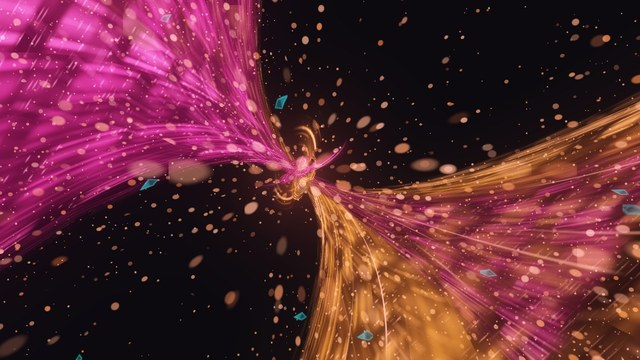
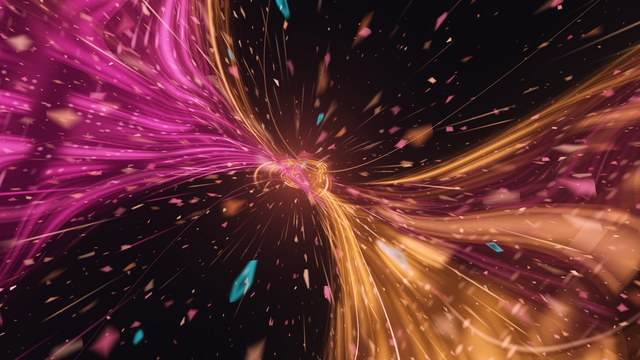
Knot: rush forward, smear and tumble, all smooth
Syd's notes: the film's 0:38-0:40 shot rushes forward with heavy motion
blur and big tumbling flakes, where Knot drifted calmly with small round
dots; and every mode should feel smoother and silkier, never steppy.

- The camera pushes in and rolls slowly as it flies. Radial speed streaks
  and four depth layers of debris rush out past it.
- Debris is now irregular tumbling flakes (skewed slabs with a sheared
  corner, flipping end over end and glinting), from far specks to big soft
  bokeh flakes up close, each smeared along its flight line, plus a few
  cyan glass shards.
- Fibres smear along their flow as the rush builds; value-noise turbulence
  makes the streams wander like paint, the pink most, and stray filaments
  fly loose either side.
- Smooth by construction: speed comes from uScroll, smear and push follow
  the eased uActive, the beat is a soft cosine swell on uBeats instead of
  a kick, the twist surges forward continuously, and the bass terms that
  move patterns are softened. uBeatStrength is no longer read.
- Dim and still in silence, as before. Shape, palette and grade unchanged.

Cost: about 1.15x the previous Knot in the GLSL harness. Bounded loops,
no raymarching; the exact Swift text compiles in glslangValidator and Mesa.

diff --git a/VisualiserMac/Sources/VisualiserMac/Render/FunShaders.swift b/VisualiserMac/Sources/VisualiserMac/Render/FunShaders.swift
@@ -2203,31 +2203,36 @@ extension FunShaders {
 extension FunShaders {
     // MARK: - Knot
 
-    /// A tangle of glowing paint threads, after the climax of the AudioVane
-    /// brand film (0:38 to 0:40). Two broad streams of fibres, hot pink
-    /// sweeping in from the top left and gold from the bottom right, pinch
-    /// through one tight twisted neck like a wrung-out rope and flare out
+    /// A tangle of glowing paint threads rushing past, after the climax of the
+    /// AudioVane brand film (0:38 to 0:40). Two broad streams of fibres, hot
+    /// pink sweeping in from the top left and gold from the bottom right,
+    /// pinch through one tight twisted neck like a wrung-out rope and flare out
     /// again, with a couple of loose threads tangled round the neck. Each
     /// stream is drawn as a projected twisted cylinder: the angle round it at
     /// each pixel comes straight from acos, so every single fibre can be read,
     /// splits into finer threads where the stream fans out, and frays at the
-    /// edges, with no raymarching. The loose threads are polar loops that
-    /// cross themselves like a trefoil. Gold glitter, chunky soft flakes and
-    /// cyan glass shards stream out past the camera in four depth layers.
-    /// The colours are picked to land as hot pink and gold through the NEON
-    /// grade, and the background carries a touch of green so the grade's
-    /// purple lift reads as black. Streaks run along the fibres on uScroll, so
-    /// it moves more when the music is loud. The bass wrings the neck tighter
-    /// and swells the fans, every beat twists the neck another notch and
-    /// re-ties one of the loose threads, and the treble sparkles the fibres.
+    /// edges, with no raymarching. Value-noise turbulence makes the streams
+    /// wander and smear like paint, and stray filaments fly loose either side.
+    /// The camera pushes in and rolls as it flies: radial speed streaks and
+    /// four depth layers of irregular tumbling gold flakes (big soft bokeh ones
+    /// up close) and cyan glass shards rush out past it, each smeared along its
+    /// flight line, and the fibres smear along their flow.
+    /// Everything moves smoothly: speed comes from uScroll (faster when loud),
+    /// smear and push follow the eased uActive, and the beat is a soft cosine
+    /// swell on uBeats rather than a kick, so nothing snaps on a hit. The bass
+    /// wrings the neck tighter and swells the fans, the twist surges forward
+    /// on each beat, and the treble sparkles the fibres. The colours are picked
+    /// to land as hot pink and gold through the NEON grade, and the background
+    /// carries a touch of green so the grade's purple lift reads as black.
     /// In silence: dim, and still.
     static let knot = """
     // Knot: two broad streams of glowing paint threads, hot pink sweeping in
     // from the top left and gold from the bottom right, pinch through one tight
     // twisted neck like a wrung-out rope and flare out again, with loose threads
     // tangled round the neck. Each stream is a bundle of single fibres that fray,
-    // split and rejoin. Gold glitter, chunky flakes and cyan glass shards stream
-    // out past the camera through black space.
+    // split and rejoin. Gold glitter, tumbling flakes and cyan glass shards rush
+    // out past the camera through black space; the louder it gets, the faster the
+    // camera pushes in and the longer everything streaks.
 
     const vec3 knotPink = vec3(1.0, 0.12, 0.42);
     const vec3 knotGold = vec3(1.0, 0.52, 0.06);
@@ -2239,6 +2244,25 @@ extension FunShaders {
     float knotNoise1(float x) {
         float i = floor(x), f = fract(x);
         return mix(hash21(vec2(i, 0.37)), hash21(vec2(i + 1.0, 0.37)), f * f * (3.0 - 2.0 * f));
+    }
+
+    // Cheap 2D value noise for the painterly turbulence.
+    float knotNoise2(vec2 x) {
+        vec2 i = floor(x), f = fract(x);
+        f = f * f * (3.0 - 2.0 * f);
+        return mix(mix(hash21(i), hash21(i + vec2(1.0, 0.0)), f.x),
+                   mix(hash21(i + vec2(0.0, 1.0)), hash21(i + vec2(1.0, 1.0)), f.x), f.y);
+    }
+
+    // How hard we're rushing forward: 0 in silence, about 1 on a steady beat,
+    // up to 2.5 when it's loud.
+    // A soft swell that peaks on each beat and eases away; never a kick.
+    float knotSwell() { return (0.5 + 0.5 * cos(2.0 * PI * uBeats)) * uActive; }
+    // How hard we're rushing forward: 0 in silence, about 1 on a steady beat,
+    // up to about 2 when it's loud. Kept gentle on the jumpy inputs so the
+    // speed changes glide rather than jump.
+    float knotRush() {
+        return min(uActive * (0.5 + 2.0 * uLevel + 0.5 * uBass) + 0.25 * knotSwell(), 2.2);
     }
 
     // A cheap atan2 (error under 0.01 rad), good enough for drawing curves.
@@ -2258,10 +2282,11 @@ extension FunShaders {
         return 0.6 + 0.4 * (8.0 * x * (1.0 - x) - 1.0);
     }
 
-    // Slow motion clock: runs faster when louder, stops in silence.
-    float knotClock() { return uTime * 0.3 + uScroll * 1.4; }
-    // One re-tie per beat, eased in, so the twist never snaps backwards.
-    float knotRetie() { return floor(uBeats) + smoothstep(0.0, 0.35, fract(uBeats)); }
+    // Motion clock: runs faster when louder, stops in silence.
+    float knotClock() { return uTime * 0.45 + uScroll * 2.4; }
+    // The twist turns on with the beat: always moving forward, surging softly
+    // on each beat and easing between, with no steps.
+    float knotRetie() { return uBeats + 0.1 * sin(2.0 * PI * uBeats); }
 
     // Paint one pass of a strand. `u` runs -1..1 across it, `t` along it.
     // Returns the colour to add in rgb and how much it covers what's behind in a.
@@ -2317,7 +2342,7 @@ extension FunShaders {
         // every third beat this strand re-ties: its loops slide round and flip
         // (the strands take turns, so something re-ties on every beat)
         float bt3 = (retie - mod(seed, 3.0)) / 3.0;
-        float tie = floor(bt3) + smoothstep(0.0, 0.35, fract(bt3));
+        float tie = floor(bt3) + smoothstep(0.0, 1.0, fract(bt3));
         float ph = B.w + clk * (0.35 + 0.06 * seed) * flip + tie * 1.7 * flip;
         // the knot twists slowly: a small sway on top of each strand's fixed tilt
         float sway = sin(clk * 0.23 + seed * 2.1);
@@ -2374,7 +2399,7 @@ extension FunShaders {
     // `ph` is the angle round the bundle, `s` the distance along it.
     // Returns the colour in rgb and how much it covers what's behind in a.
     vec4 knotFibres(float ph, float s, float x, float flow, float nf, float seed,
-                    vec3 tint, float fan, float lit) {
+                    vec3 tint, float fan, float lit, float sm) {
         float ax = abs(x);
         // fibres: count them round the bundle; where it fans out wide, each one
         // splits into finer threads
@@ -2382,12 +2407,15 @@ extension FunShaders {
         float fi = floor(c);
         float fh = hash21(vec2(fi, seed));
         float fl = abs(fract(c) - 0.5);
-        float thread = smoothstep(0.12 + 0.25 * fh, 0.02, fl);
+        // the faster we rush, the softer and more smeared each fibre gets
+        float bl = (sm - 1.0) * 0.025;
+        float thread = smoothstep(0.12 + 0.25 * fh + bl, 0.02 - 0.5 * bl, fl);
         float c2 = c * 3.0;
-        float fine = smoothstep(0.3, 0.05, abs(fract(c2) - 0.5)) * hash21(vec2(floor(c2), seed + 3.0));
+        float fine = smoothstep(0.3, 0.05, abs(fract(c2) - 0.5)) * hash21(vec2(floor(c2), seed + 3.0)) / sm;
         thread = mix(thread, max(thread * 0.6, fine), fan);
         // long streaks flowing in along the fibres: they split, thin out and rejoin
-        float streak = knotNoise1((abs(s) * 14.0 - flow) * (1.0 + fh) + fi * 7.3);
+        // `sm` stretches them out as the rush speeds up: a motion smear
+        float streak = knotNoise1((abs(s) * 14.0 / sm - flow) * (1.0 + fh) + fi * 7.3);
         thread *= smoothstep(0.25, 0.6, streak);
         // ragged edges: some fibres stray outside the bundle, some stop short
         float rag = knotNoise1(abs(s) * 6.0 + fi * 3.1);
@@ -2395,15 +2423,15 @@ extension FunShaders {
         // the paint body: a soft round bundle, streaked along its length
         float body = sqrt(max(1.0 - x * x, 0.0)) * (0.3 + 0.9 * streak * streak);
         // glittering flecks caught in the paint, and treble sparkle on the fibres
-        float fa = (abs(s) * 90.0 - flow * 2.0) + fh * 7.0;
+        float fa = (abs(s) * 90.0 / sm - flow * 2.0) + fh * 7.0;
         float fleck = step(0.8, hash21(vec2(floor(fa), floor(c2) + seed * 41.0)));
         fleck *= smoothstep(0.35, 0.05, length(vec2(fract(fa) - 0.5, fract(c2) - 0.5)));
         float gl = step(0.985 - 0.04 * uTreble, hash21(vec2(fi + seed * 31.0, floor(fa * 0.5))));
         // fine bright filaments running through the gold
         float c3 = c * 2.0 + 0.37;
         float fil = smoothstep(0.08, 0.0, abs(fract(c3) - 0.5)) * step(0.65, hash21(vec2(floor(c3), seed + 9.0)));
-        fil *= smoothstep(0.4, 0.8, knotNoise1(abs(s) * 5.0 - flow * 0.5 + floor(c3) * 5.1)) * step(0.3, tint.g);
-        float s1 = env * (body * 0.75 + thread * (0.35 + 0.9 * fh));
+        fil *= smoothstep(0.4, 0.8, knotNoise1(abs(s) * 5.0 / sm - flow * 0.5 + floor(c3) * 5.1)) * step(0.3, tint.g);
+        float s1 = env * (body * 0.5 + thread * (0.45 + 1.0 * fh));
         vec3 hot = mix(tint, vec3(1.0, 0.85, 0.7), 0.5);
         vec3 col = tint * s1 + hot * env * (fil * 1.6 + thread * fh * fh * fh * fh + (fleck * 0.6 + gl * thread * (0.9 + 2.0 * uTreble)) * step(0.4, fh));
         return vec4(col * lit, 0.55 * env);
@@ -2415,12 +2443,18 @@ extension FunShaders {
     // past the neck), and twists hardest right at the neck.
     void knotStream(inout vec3 col, inout float near, vec2 p, vec2 n, float ang, float bend,
                     float flareIn, float flareOut, float twist, float spin, float flow,
-                    float nf, float seed, vec3 tint, float fadeOut, float lit) {
+                    float nf, float seed, vec3 tint, float fadeOut, float lit,
+                    float sm, float mess) {
         vec2 dir = vec2(cos(ang), sin(ang));
         vec2 q = p - n;
         float s = dot(q, dir);                                // > 0: coming in
-        float v = dot(q, vec2(-dir.y, dir.x)) - bend * s * s;
-        float neck = 0.018 * (1.0 - 0.3 * uBass);            // bass wrings the neck tighter
+        float as = abs(s);
+        // painterly turbulence: the stream wanders and smears out in the fans,
+        // flowing in with the paint, while the neck stays tight
+        vec2 wq = vec2(as * 3.2 / sm - flow * 0.07, dot(q, vec2(-dir.y, dir.x)) * 3.0 + seed * 5.3);
+        float turb = 1.4 * (knotNoise2(wq) - 0.5);
+        float v = dot(q, vec2(-dir.y, dir.x)) - bend * s * s + turb * mess * smoothstep(0.02, 0.45, as);
+        float neck = 0.018 * (1.0 - 0.2 * uBass - 0.1 * knotSwell()); // bass wrings the neck tighter
         float W = neck + s * s * (s > 0.0 ? flareIn : flareOut);
         float x = v / W;
         float ax = abs(x);
@@ -2430,36 +2464,61 @@ extension FunShaders {
         near += side * reach / (1.0 + ax * ax);
         // a soft glow round the stream
         col += tint * side * reach * 0.06 * lit / (1.0 + 2.0 * ax * ax);
+        // stray filaments flying loose either side, converging through the neck
+        if (ax < 3.0) {
+            float hair = 0.0;
+            for (int i = 0; i < 2; i++) {
+                float fi = float(i);
+                float xo = (1.2 + 0.4 * fi + 0.8 * knotNoise1(as * 3.0 + fi * 9.0 + seed * 3.0)) * (mod(fi, 2.0) * 2.0 - 1.0);
+                float dd = abs(v - xo * W);
+                hair += smoothstep(0.003, 0.0, dd) * smoothstep(0.35, 0.75, knotNoise1(as * 4.0 / sm - flow * 0.35 + fi * 5.0 + seed));
+            }
+            col += mix(tint, vec3(1.0, 0.8, 0.7), 0.3) * hair * 0.6 * side * reach * lit;
+        }
         if (ax > 1.05) return;
+        // paint blotches: the colour gathers and thins unevenly
+        lit *= 0.55 + 0.9 * knotNoise2(vec2(as * 5.0 / sm - flow * 0.1, x * 1.3 + seed));
         // a projected twisted cylinder: each fibre sits at angle ph round it
         float a = acos(clamp(x, -1.0, 1.0));
         float T = twist * s / (0.05 + abs(s)) + spin;         // twists hardest at the neck
         float depth = 0.65 + 0.35 * sqrt(max(1.0 - x * x, 0.0));
-        vec4 back = knotFibres(-a - T, s, x, flow, nf, seed, tint, fan, lit * side * reach * 0.55);
+        // the fibres wander round the bundle so it never repeats evenly
+        T += turb * mess * 9.0 * fan;
+        vec4 back = knotFibres(-a - T, s, x, flow, nf, seed, tint, fan, lit * side * reach * 0.55, sm);
         col = col * (1.0 - back.a * 0.6) + back.rgb;
-        vec4 front = knotFibres(a - T, s, x, flow, nf, seed, tint, fan, lit * side * reach * depth);
+        vec4 front = knotFibres(a - T, s, x, flow, nf, seed, tint, fan, lit * side * reach * depth, sm);
         col = col * (1.0 - front.a) + front.rgb;
     }
 
     void main() {
-        vec2 p = screenP();
+        vec2 p0 = screenP();
         float clk = knotClock();
         float retie = knotRetie();
+        float rush = knotRush();
+        float swl = knotSwell();
         float lit = (0.35 + 0.65 * uActive) * (1.1 + 0.5 * uLevel + 0.4 * uBass);
         // the neck sits a little left of centre, wandering slowly
         vec2 n = vec2(-0.08 + 0.03 * sin(clk * 0.13), 0.0 + 0.02 * sin(clk * 0.11 + 1.0));
-        float flow = uScroll * 6.0 + uTime * 0.6;             // streaks run in along the streams
-        float swell = 1.0 + 0.4 * uBass;                       // bass swells the fans
-        float wring = 2.6 + 0.6 * uBass;                       // and twists it harder
+        // the camera leans in as it rushes, swelling softly on the beat
+        vec2 p = n + (p0 - n) / (1.0 + 0.07 * uActive + 0.04 * swl);
+        // motion smear along the flow and painterly turbulence; both follow the
+        // smoothly eased activity so the patterns never jump on a hit
+        float sm = 1.0 + 1.3 * uActive + 0.15 * swl;
+        float mess = 0.02 + 0.02 * uActive;
+        float flow = uScroll * 16.0 + uTime * 1.2;            // streaks run in along the streams
+        // the camera rolls and drifts smoothly as it flies
+        p = n + rot(0.18 * sin(clk * 0.21) + 0.08 * sin(clk * 0.37 + 1.3)) * (p - n);
+        float swell = 1.0 + 0.2 * uBass + 0.08 * swl;          // bass swells the fans
+        float wring = 2.6 + 0.25 * uBass;                      // and twists it harder
         float tie = retie * 0.9;                                // every beat twists it another notch
 
         vec3 col = vec3(0.004, 0.03, 0.0);                     // lands near-neutral black after the grade
         float near = 0.0;
         // gold comes in from the bottom right, pink from the top left
         knotStream(col, near, p, n, -0.9 + 0.08 * sin(clk * 0.2), 0.5, 3.0 * swell, 0.8 * swell,
-                   wring, clk * 0.5 + tie, flow, 40.0, 2.0, knotGold, 0.4, lit);
-        knotStream(col, near, p, n, 2.6 + 0.08 * sin(clk * 0.17 + 2.0), -0.4, 2.4 * swell, 0.7 * swell,
-                   -wring, -clk * 0.6 - tie, flow * 1.1, 46.0, 1.0, knotPink, 0.35, lit);
+                   wring, clk * 0.5 + tie, flow, 40.0, 2.0, knotGold, 0.45, lit * 1.25, sm, mess);
+        knotStream(col, near, p, n, 2.6 + 0.08 * sin(clk * 0.17 + 2.0), -0.4, 1.9 * swell, 0.7 * swell,
+                   -wring, -clk * 0.6 - tie, flow * 1.1, 46.0, 1.0, knotPink, 0.16, lit * 0.9, sm, mess * 1.3);
         // loose threads tangled round the neck
         knotStrand(col, near, p, n, clk, retie, 1.0 - 0.16 * uBass, swell, lit,
                    vec4(0.01, 0.0, 0.4, 0.6), vec4(0.07, 1.5, 0.5, 0.0), vec4(0.0, 9.0, 1.6, 1.4), vec4(0.022, 8.0, 1.0, 4.0));
@@ -2468,56 +2527,78 @@ extension FunShaders {
         near = min(near, 2.0);
         // warm light gathered in the neck
         float kr = length(p - n);
-        col += mix(knotPink, knotGold, 0.6) * exp(-kr * 10.0) * (0.25 + 0.5 * uBeatStrength) * lit;
+        col += mix(knotPink, knotGold, 0.6) * exp(-kr * 10.0) * (0.25 + 0.35 * swl) * lit;
 
-        // gold glitter flecks, thicker round the streams
-        vec2 gq = (p - n) * 60.0;
-        vec2 gc = floor(gq);
-        float gh = hash21(gc);
-        vec2 go = fract(gq) - 0.5 - (vec2(hash21(gc + 3.1), hash21(gc + 7.7)) - 0.5) * 0.6;
-        float gsz = 0.07 + 0.2 * knotSq(hash21(gc + 1.9));
-        float speck = smoothstep(gsz, gsz * 0.3, length(go)) * step(0.99 - 0.25 * near - 0.04 * uTreble, gh);
-        col += mix(knotGold, vec3(1.0, 0.85, 0.5), hash21(gc + 5.5)) * speck * (0.8 + 1.0 * uTreble) * lit;
-
-        // a dense field of glitter, flakes and glass streaming out from the neck
-        // towards the camera: far layers are fine specks, near ones big, soft,
-        // chunky flakes streaked by their speed
-        float travel = uScroll * 0.5 + uTime * 0.04;
+        // speed lines: long radial streaks of paint shooting out from the neck,
+        // longer and faster the harder we rush
+        float travel = uScroll * 2.2 + uTime * 0.12;
         vec2 rq = p - n;
         float rr = max(length(rq), 1e-3);
         vec2 rdir = rq / rr;
-        float busy = min(near, 1.0) * 0.7 + exp(-rr * 5.0);
+        float ang = knotAtan(rq.y, rq.x);
+        float lr = log(rr);
+        float pinkSide = smoothstep(-0.4, 0.6, dot(rdir, vec2(-0.86, 0.5)));
+        for (int k = 0; k < 1; k++) {
+            float fk = float(k);
+            float N = 110.0;
+            float ac = ang / (2.0 * PI) * N + fk * 0.37;
+            float ai = floor(ac);
+            float h = hash21(vec2(ai, fk + 7.0));
+            float aw = abs(fract(ac) - 0.5) * 2.0 * PI / N * rr;  // distance across, on screen
+            float pos = fract(lr * 0.55 - travel * (0.5 + 0.5 * h) + h * 7.0);
+            float len = (0.12 + 0.3 * h) * (0.4 + 0.5 * rush);
+            float seg = smoothstep(0.0, len, pos) * smoothstep(len, len * 0.8, pos);
+            float wdt = 0.0015 + 0.004 * rr * h;
+            float line = smoothstep(wdt, 0.0, aw) * seg * step(0.25, h) * smoothstep(0.03, 0.15, rr);
+            vec3 lc = mix(mix(knotGold, vec3(1.0, 0.8, 0.45), h), knotPink, pinkSide * step(0.7, hash21(vec2(ai, fk + 3.0))));
+            col += lc * line * (0.2 + 1.0 * min(near, 1.0)) * (0.4 + 0.6 * rush) * lit;
+        }
+
+        // a dense field of glitter, tumbling flakes and glass rushing out from the
+        // neck past the camera: far layers are fine specks, near ones big, soft,
+        // bokeh-like flakes smeared by their speed
+        float busy = min(near, 1.0) * 0.8 + 1.2 * exp(-rr * 4.0);
         for (int k = 0; k < 4; k++) {
             float fk = float(k);
-            float z = fract(fk * 0.25 + travel);                    // 0 far, 1 right past us
-            float scale = mix(26.0, 2.2, z * z);
+            float z = fract(fk * 0.25 + travel * 0.45);          // 0 far, 1 right past us
+            float scale = mix(30.0, 1.4, z * z);
             vec2 bq = rq * scale + vec2(fk * 17.3, fk * 9.1);
             vec2 bc = floor(bq);
             float bh = hash21(bc + fk * 3.1);
-            vec2 lo = fract(bq) - 0.5 - (vec2(hash21(bc + 1.3), hash21(bc + 5.9)) - 0.5) * 0.4;
+            if (bh > 0.12 + 0.6 * busy) continue;                // an empty patch of space
+            float h1 = hash21(bc + 1.3), h2 = fract(h1 * 37.1), h3 = fract(h1 * 91.7), h4 = fract(h1 * 13.3);
+            vec2 lo = fract(bq) - 0.5 - (vec2(h1, h2) - 0.5) * 0.3;
             float along = dot(lo, rdir), across = dot(lo, vec2(-rdir.y, rdir.x));
-            float blur = 1.0 + 2.5 * z * z * (0.4 + 0.6 * uLevel);   // motion streaks
-            float fade = smoothstep(0.0, 0.2, z) * smoothstep(1.0, 0.8, z);
-            float size = (0.05 + 0.18 * knotSq(hash21(bc + 2.2))) * (0.8 + 0.6 * z);
-            if (bh < 0.02 && z > 0.55) {
-                // a cyan glass shard, tumbling
-                vec2 cp = rot(bh * 300.0 + clk * 1.5 + retie * 0.5) * vec2(along / blur, across);
-                vec2 kp = vec2(cp.x + 0.5 * cp.y, cp.y);
-                float sd = max(sdBox(kp, vec2(size * 1.6 + 0.08, size * 0.8 + 0.05)), dot(cp, vec2(0.6, 0.8)) - size * 0.6 - 0.03);
-                float edge = 0.015 + 0.03 * z;
-                float shard = smoothstep(edge, -edge, sd);
-                float rim = smoothstep(edge + 0.03, 0.0, abs(sd));
+            float fade = smoothstep(0.0, 0.25, z) * smoothstep(1.0, 0.93, z);
+            float size = (0.04 + 0.17 * h3 * h3) * (0.6 + 0.9 * z);
+            // motion streak along the flight line, kept inside the cell
+            float blur = min(1.0 + (0.6 + 5.0 * z * z) * rush, 0.44 / size);
+            float spin = bh * 300.0 + clk * (1.0 + 3.0 * h4) + travel * 3.0;
+            vec2 cp = rot(spin) * vec2(along / blur, across);
+            // an irregular flake: a skewed slab with one corner sheared off,
+            // flipping end over end as it tumbles
+            cp.x /= max(abs(cos(spin * 0.7 + h2 * 9.0)), 0.25);
+            vec2 kp = vec2(cp.x + (h2 - 0.5) * cp.y, cp.y);
+            vec2 cut = normalize(vec2(h3 - 0.5, h4 - 0.5) + 0.01);
+            float sd = max(sdBox(kp, size * vec2(0.6 + 0.6 * h4, 0.35 + 0.4 * h2)), dot(cp, cut) - size * (0.15 + 0.3 * h1));
+            if (bh < 0.012 && z > 0.4) {
+                // a cyan glass shard
+                float edge = 0.012 + 0.12 * z * z;
+                float shard = smoothstep(edge, -edge, sd - 0.03);
+                float rim = smoothstep(edge + 0.03, 0.0, abs(sd - 0.03));
                 float face = smoothstep(-0.1, 0.1, cp.x - cp.y);
-                vec3 glass = knotCyan * (0.3 + 0.4 * face + 0.7 * rim) * (1.0 + 0.8 * uTreble + 0.6 * uBeatStrength) * (0.35 + 0.65 * uActive);
+                vec3 glass = knotCyan * (0.3 + 0.4 * face + 0.7 * rim) * (1.0 + 0.8 * uTreble + 0.4 * swl) * (0.35 + 0.65 * uActive);
                 col = mix(col, glass + col * 0.4, shard * fade * 0.75);
-            } else if (bh < 0.08 + 0.55 * busy) {
-                // a gold speck far off, a soft chunky flake up close
-                float soft = mix(0.04, 0.35, z) * size + 0.01;
-                float d = length(vec2(along / blur, across) * vec2(1.0, 1.0 + 0.4 * hash21(bc + 8.1))) - size;
-                float flake = smoothstep(soft, -soft, d);
-                vec3 fc = mix(vec3(1.0, 0.45, 0.1), vec3(1.0, 0.75, 0.4), hash21(bc + 6.6));
-                float fb = (0.3 + 1.0 * hash21(bc + 3.3)) * mix(1.4, 0.7, z) * lit * fade;
-                col += fc * flake * fb * (0.6 + 0.6 * uTreble * (1.0 - z));
+            } else {
+                // a gold speck far off, a big soft bokeh flake up close
+                float soft = mix(0.03, 0.9, z * z) * size + 0.008;
+                float flake = smoothstep(soft, -soft, sd);
+                vec3 fc = mix(vec3(1.0, 0.42, 0.08), vec3(1.0, 0.78, 0.42), h4);
+                fc = mix(fc, knotPink, step(0.85, h3) * 0.6);
+                // a glint that catches as it tumbles
+                float glint = knotSq(knotSq(max(cos(spin * 1.3), 0.0)));
+                float fb = (0.45 + 1.0 * h2) * mix(1.6, 0.9, z) * lit * fade / sqrt(blur);
+                col += fc * flake * fb * (0.6 + 0.6 * glint + 0.6 * uTreble * (1.0 - z));
             }
         }
 
